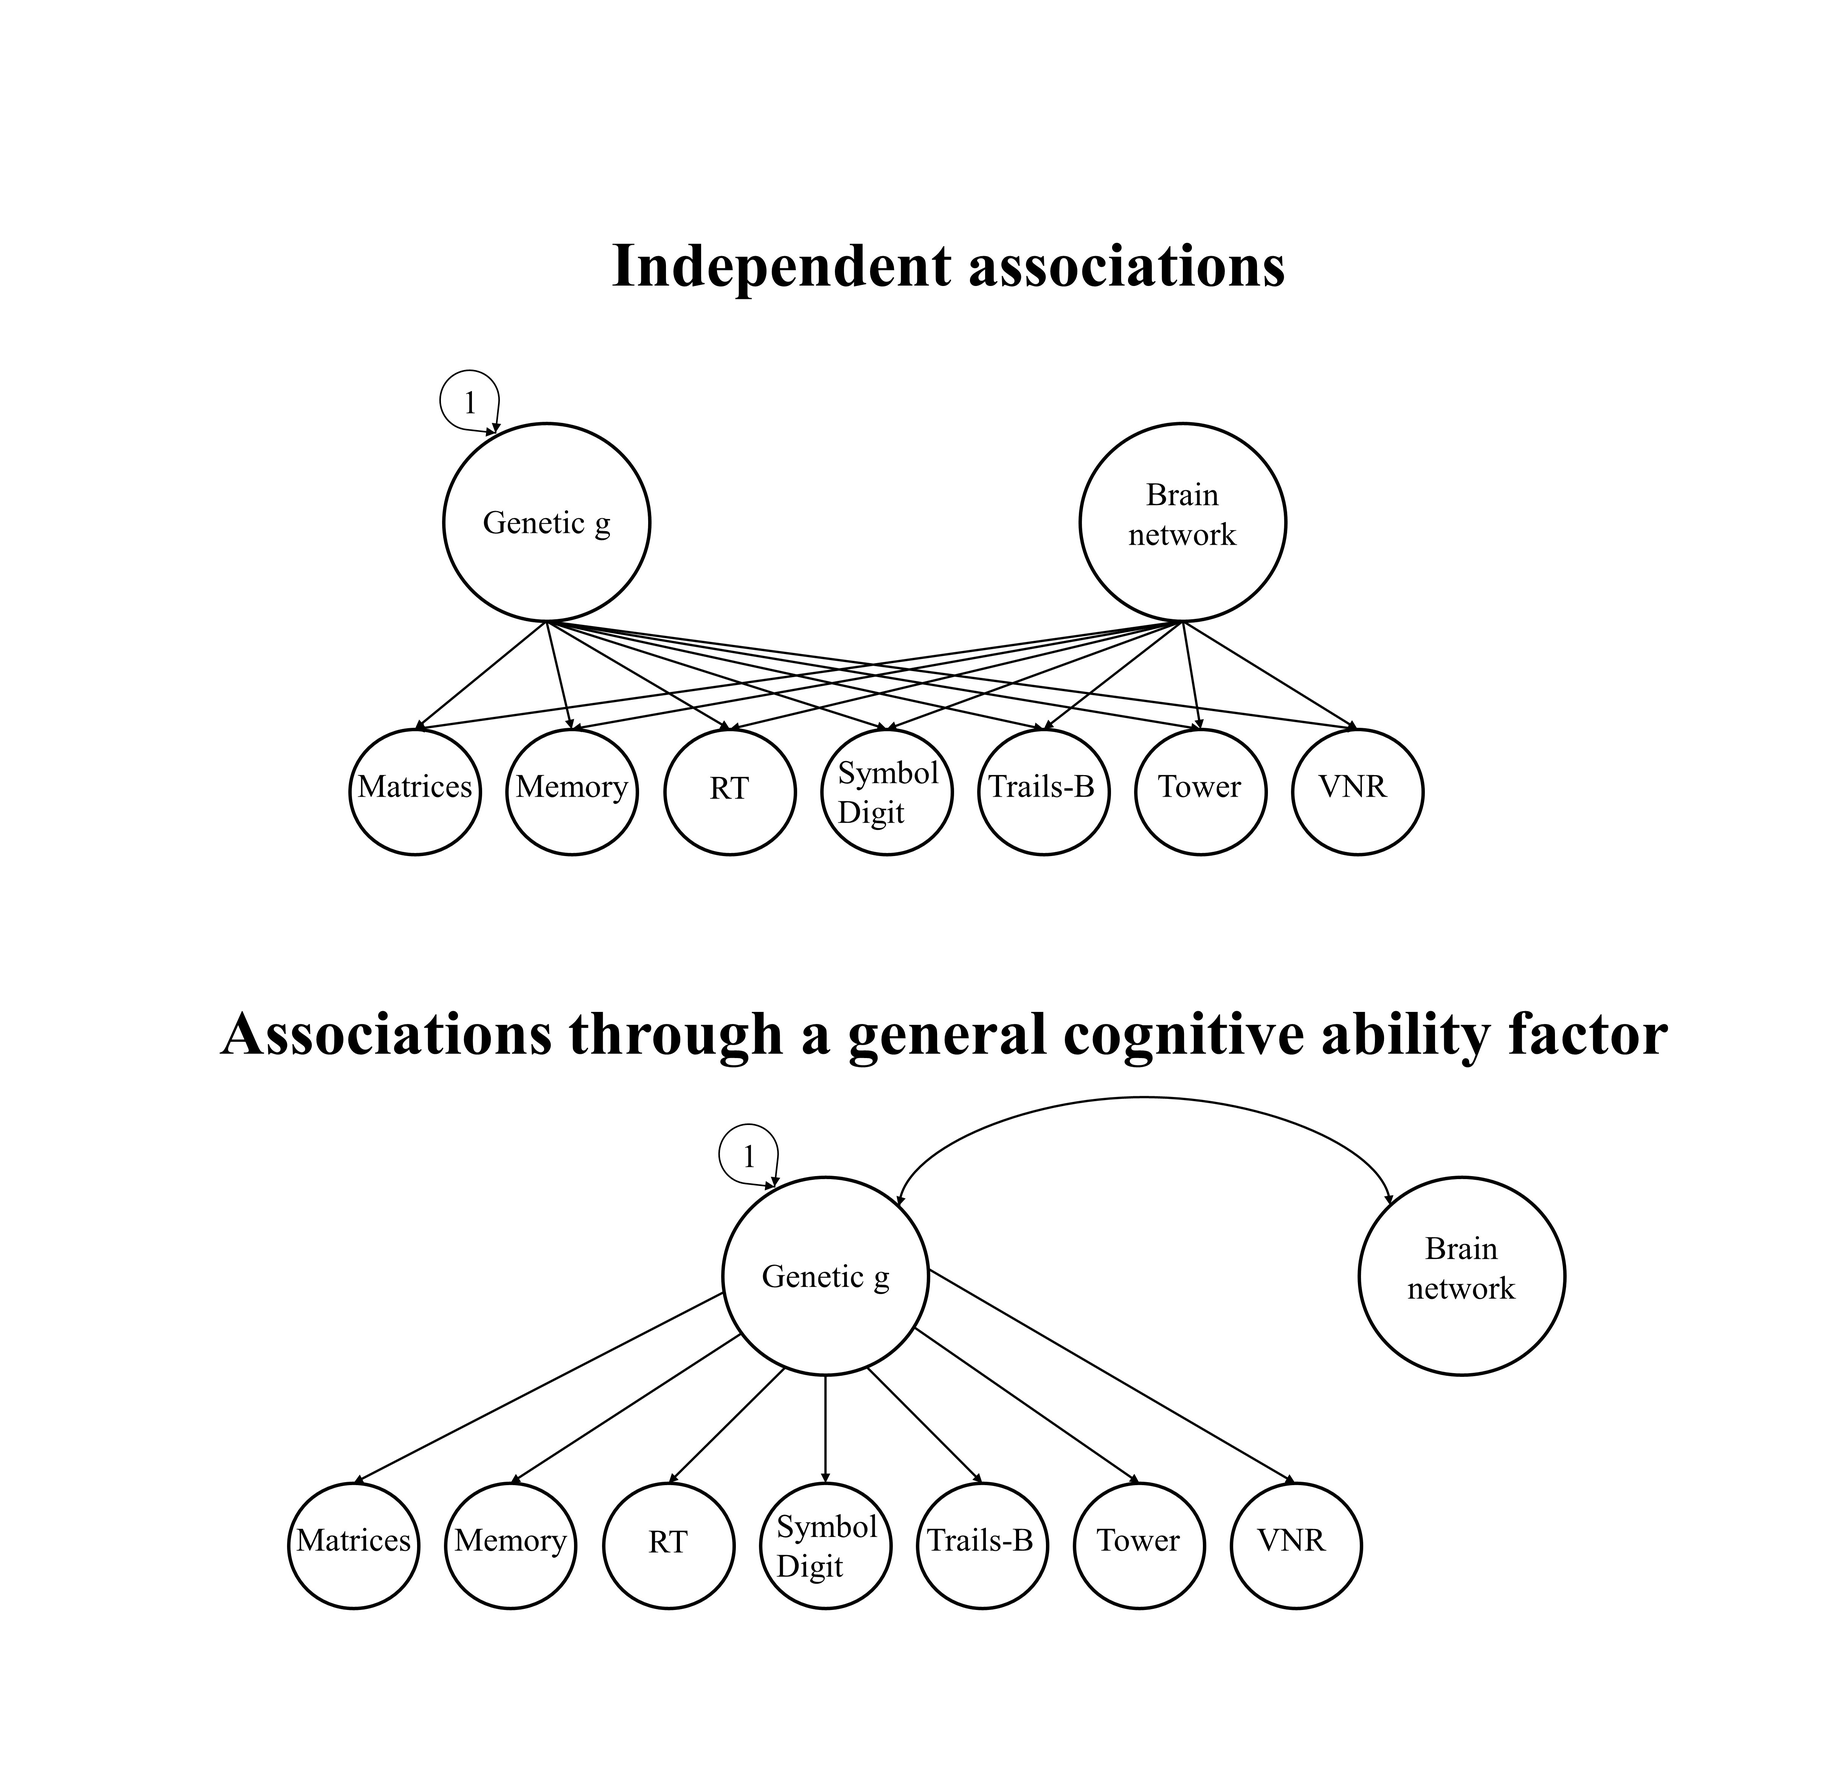
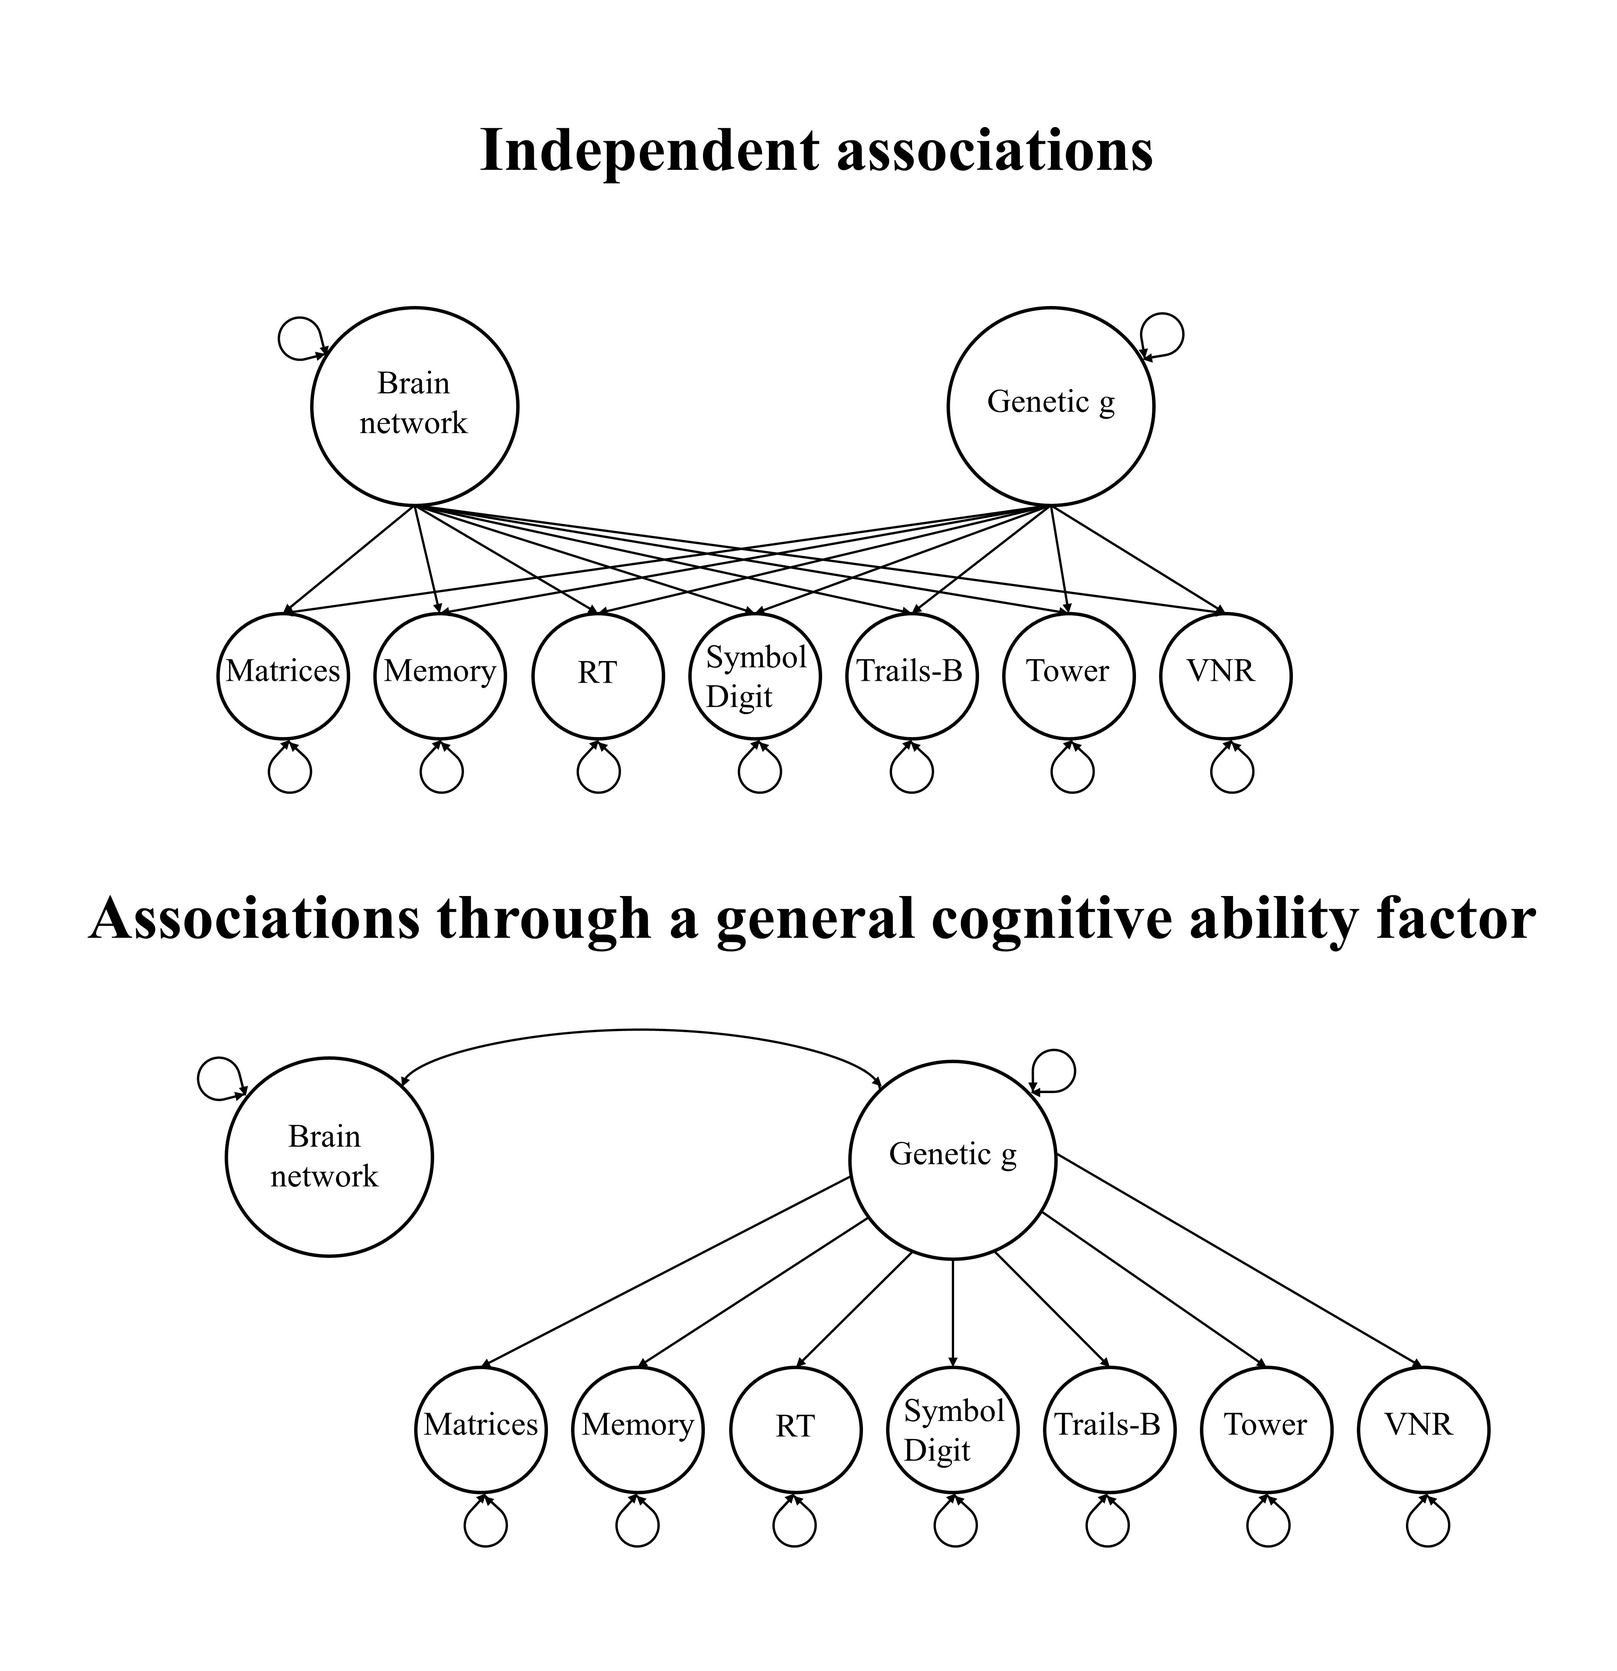
descripQtrait

diff --git a/Hypothesis3.html b/Hypothesis3.html
@@ -376,10 +376,15 @@ body{
 }
 </style>
 <p>Using genomic structural equation modelling (genomic SEM; Grotzinger et al., 2019), we will extract a latent genetic g factor which represents common genetic variation shared by seven cognitive traits (de la Fuente et al., 2019) and correlate it with brainwide and network-specific genetic indices. As brain volumes and intelligence genetically overlap, we hypothesise that the genetic whole-brain scores positively correlate with genetic g. Additionally, we hypothesise, on the basis of previous phenotypic findings, that the central executive network shows a stronger genetic correlation than other networks, when accounting for the number of included nodes.</p>
+<p><br> <br></p>
 <div id="calculate-pc-sumstats" class="section level1">
 <h1>Calculate PC sumstats</h1>
+<p><img src="methods_visualisation.png" /></p>
+<p><br> <br></p>
+<hr />
 <div id="format-gwas-as-expected-by-gwama-software" class="section level2">
 <h2>1. Format GWAS as expected by GWAMA software</h2>
+<p>The following code relates to step 4 in the illustration above.</p>
 <pre class="r"><code>##### format GWAS files for GWAMA
 # documentation of the Baselman function
 # https://github.com/baselmans/multivariate_GWAMA/blob/master/README.md
@@ -791,8 +796,8 @@ only_networks&lt;-only_networks[which(!is.na(only_networks$value)),]
 
 library(DT)
 datatable(only_networks, caption = &quot;Genetic correlations among genetic networks&quot;,colnames = c(&quot;Network 1&quot;,&quot;Network 2&quot;,&quot;rg&quot;), rownames=FALSE,options = list(pageLength=5, scrollX=T))</code></pre>
-<div id="htmlwidget-f418ae1a2a673d0e2482" style="width:100%;height:auto;" class="datatables html-widget"></div>
-<script type="application/json" data-for="htmlwidget-f418ae1a2a673d0e2482">{"x":{"filter":"none","caption":"<caption>Genetic correlations among genetic networks<\/caption>","data":[["cingulo","default_mode","hippocampal","multiple","p_fit","salience","sensori","temporo","whole_brain","default_mode","hippocampal","multiple","p_fit","salience","sensori","temporo","whole_brain","hippocampal","multiple","p_fit","salience","sensori","temporo","whole_brain","multiple","p_fit","salience","sensori","temporo","whole_brain","p_fit","salience","sensori","temporo","whole_brain","salience","sensori","temporo","whole_brain","sensori","temporo","whole_brain","temporo","whole_brain","whole_brain"],["central_exec","central_exec","central_exec","central_exec","central_exec","central_exec","central_exec","central_exec","central_exec","cingulo","cingulo","cingulo","cingulo","cingulo","cingulo","cingulo","cingulo","default_mode","default_mode","default_mode","default_mode","default_mode","default_mode","default_mode","hippocampal","hippocampal","hippocampal","hippocampal","hippocampal","hippocampal","multiple","multiple","multiple","multiple","multiple","p_fit","p_fit","p_fit","p_fit","salience","salience","salience","sensori","sensori","temporo"],[0.88,0.92,0.66,0.94,0.95,0.69,0.82,0.85,0.91,0.86,0.68,0.87,0.89,0.84,0.82,0.86,0.91,0.75,0.89,0.95,0.71,0.82,0.93,0.95,0.63,0.71,0.79,0.69,0.77,0.81,0.92,0.69,0.88,0.83,0.9,0.73,0.85,0.94,0.97,0.76,0.77,0.83,0.8,0.89,0.95]],"container":"<table class=\"display\">\n  <thead>\n    <tr>\n      <th>Network 1<\/th>\n      <th>Network 2<\/th>\n      <th>rg<\/th>\n    <\/tr>\n  <\/thead>\n<\/table>","options":{"pageLength":5,"scrollX":true,"columnDefs":[{"className":"dt-right","targets":2}],"order":[],"autoWidth":false,"orderClasses":false,"lengthMenu":[5,10,25,50,100]}},"evals":[],"jsHooks":[]}</script>
+<div id="htmlwidget-1922692a7d30286f7309" style="width:100%;height:auto;" class="datatables html-widget"></div>
+<script type="application/json" data-for="htmlwidget-1922692a7d30286f7309">{"x":{"filter":"none","caption":"<caption>Genetic correlations among genetic networks<\/caption>","data":[["cingulo","default_mode","hippocampal","multiple","p_fit","salience","sensori","temporo","whole_brain","default_mode","hippocampal","multiple","p_fit","salience","sensori","temporo","whole_brain","hippocampal","multiple","p_fit","salience","sensori","temporo","whole_brain","multiple","p_fit","salience","sensori","temporo","whole_brain","p_fit","salience","sensori","temporo","whole_brain","salience","sensori","temporo","whole_brain","sensori","temporo","whole_brain","temporo","whole_brain","whole_brain"],["central_exec","central_exec","central_exec","central_exec","central_exec","central_exec","central_exec","central_exec","central_exec","cingulo","cingulo","cingulo","cingulo","cingulo","cingulo","cingulo","cingulo","default_mode","default_mode","default_mode","default_mode","default_mode","default_mode","default_mode","hippocampal","hippocampal","hippocampal","hippocampal","hippocampal","hippocampal","multiple","multiple","multiple","multiple","multiple","p_fit","p_fit","p_fit","p_fit","salience","salience","salience","sensori","sensori","temporo"],[0.88,0.92,0.66,0.94,0.95,0.69,0.82,0.85,0.91,0.86,0.68,0.87,0.89,0.84,0.82,0.86,0.91,0.75,0.89,0.95,0.71,0.82,0.93,0.95,0.63,0.71,0.79,0.69,0.77,0.81,0.92,0.69,0.88,0.83,0.9,0.73,0.85,0.94,0.97,0.76,0.77,0.83,0.8,0.89,0.95]],"container":"<table class=\"display\">\n  <thead>\n    <tr>\n      <th>Network 1<\/th>\n      <th>Network 2<\/th>\n      <th>rg<\/th>\n    <\/tr>\n  <\/thead>\n<\/table>","options":{"pageLength":5,"scrollX":true,"columnDefs":[{"className":"dt-right","targets":2}],"order":[],"autoWidth":false,"orderClasses":false,"lengthMenu":[5,10,25,50,100]}},"evals":[],"jsHooks":[]}</script>
 <p>The genetic correlations between the networks range from 0.97 to 0.63 (mean rg 0.83; SD = 0.09). This indicates that the different networks index very similar polygenic signal. The largest genetic correlation of 0.97 was between whole_brain and p_fit. The smallest genetic correlation of 0.63 was between multiple and hippocampal.</p>
 <p><br> <br></p>
 </div>
@@ -1772,8 +1777,8 @@ names(table)&lt;-c(&quot;model&quot;,&quot;rg&quot;,&quot;SE&quot;,&quot;CI&quot
 
 library(DT)
 datatable(table, caption = &quot;Genetic correlations between individual networks and specific cognitive abilities&quot;, rownames=FALSE,options = list(pageLength=5, scrollX=T))</code></pre>
-<div id="htmlwidget-878840b1ded800b5af42" style="width:100%;height:auto;" class="datatables html-widget"></div>
-<script type="application/json" data-for="htmlwidget-878840b1ded800b5af42">{"x":{"filter":"none","caption":"<caption>Genetic correlations between individual networks and specific cognitive abilities<\/caption>","data":[["central_exec_Matrix","central_exec_Memory","central_exec_Symbol Digit","cingulo_Matrix","cingulo_Memory","cingulo_Symbol Digit","default_mode_Matrix","default_mode_Memory","default_mode_Symbol Digit","hippocampal_Matrix","hippocampal_Memory","hippocampal_Symbol Digit","multiple_Matrix","multiple_Memory","multiple_Symbol Digit","p_fit_Matrix","p_fit_Memory","p_fit_Symbol Digit","salience_Matrix","salience_Memory","salience_Symbol Digit","sensori_Matrix","sensori_Memory","sensori_Symbol Digit","temporo_Matrix","temporo_Memory","temporo_Symbol Digit","whole_brain_Matrix","whole_brain_Memory","whole_brain_Symbol Digit"],[0.2013,0.1168,0.1403,0.1907,0.0915,0.1209,0.2219,0.1082,0.1387,0.185,0.0278,0.1263,0.1675,0.111,0.11,0.227,0.1139,0.1204,0.1276,0.0498,0.1285,0.1111,0.0888,0.1198,0.2416,0.0967,0.1087,0.2287,0.0991,0.1365],[0.0884,0.0384,0.0463,0.095,0.0369,0.0458,0.0913,0.0405,0.0446,0.094,0.04,0.0452,0.0888,0.0393,0.0465,0.0865,0.0382,0.0456,0.0912,0.0354,0.047,0.0877,0.0401,0.0468,0.0881,0.039,0.0461,0.0875,0.0384,0.0469],["0.0281 - 0.3745","0.0415 - 0.1921","0.0495 - 0.2311","0.0046 - 0.3768","0.0192 - 0.1638","0.0311 - 0.2107","0.043 - 0.4008","0.0288 - 0.1876","0.0513 - 0.2261","7e-04 - 0.3693","-0.0505 - 0.1061","0.0376 - 0.2149","-0.0066 - 0.3416","0.0339 - 0.188","0.0189 - 0.2011","0.0575 - 0.3964","0.039 - 0.1887","0.031 - 0.2097","-0.0512 - 0.3065","-0.0197 - 0.1192","0.0363 - 0.2207","-0.0608 - 0.283","0.0103 - 0.1673","0.0282 - 0.2115","0.069 - 0.4143","0.0202 - 0.1732","0.0184 - 0.199","0.0571 - 0.4002","0.0238 - 0.1745","0.0446 - 0.2284"],[0.0227,0.0024,0.0024,0.0446,0.0131,0.0083,0.0151,0.0075,0.0019,0.0491,0.4866,0.0052,0.0593,0.0048,0.018,0.0087,0.0029,0.0083,0.1619,0.16,0.0063,0.2053,0.0267,0.0104,0.0061,0.0133,0.0182,0.009,0.0099,0.0036],[0.031,0.0193,0.0193,0.0558,0.0221,0.0193,0.0238,0.0193,0.0193,0.0589,0.4866,0.0193,0.0684,0.0193,0.0261,0.0193,0.0193,0.0193,0.1735,0.1735,0.0193,0.2124,0.0348,0.0195,0.0193,0.0221,0.0261,0.0193,0.0195,0.0193]],"container":"<table class=\"display\">\n  <thead>\n    <tr>\n      <th>model<\/th>\n      <th>rg<\/th>\n      <th>SE<\/th>\n      <th>CI<\/th>\n      <th>p_value<\/th>\n      <th>p_adjust<\/th>\n    <\/tr>\n  <\/thead>\n<\/table>","options":{"pageLength":5,"scrollX":true,"columnDefs":[{"className":"dt-right","targets":[1,2,4,5]}],"order":[],"autoWidth":false,"orderClasses":false,"lengthMenu":[5,10,25,50,100]}},"evals":[],"jsHooks":[]}</script>
+<div id="htmlwidget-8a36fcd57774400bb5d4" style="width:100%;height:auto;" class="datatables html-widget"></div>
+<script type="application/json" data-for="htmlwidget-8a36fcd57774400bb5d4">{"x":{"filter":"none","caption":"<caption>Genetic correlations between individual networks and specific cognitive abilities<\/caption>","data":[["central_exec_Matrix","central_exec_Memory","central_exec_Symbol Digit","cingulo_Matrix","cingulo_Memory","cingulo_Symbol Digit","default_mode_Matrix","default_mode_Memory","default_mode_Symbol Digit","hippocampal_Matrix","hippocampal_Memory","hippocampal_Symbol Digit","multiple_Matrix","multiple_Memory","multiple_Symbol Digit","p_fit_Matrix","p_fit_Memory","p_fit_Symbol Digit","salience_Matrix","salience_Memory","salience_Symbol Digit","sensori_Matrix","sensori_Memory","sensori_Symbol Digit","temporo_Matrix","temporo_Memory","temporo_Symbol Digit","whole_brain_Matrix","whole_brain_Memory","whole_brain_Symbol Digit"],[0.2013,0.1168,0.1403,0.1907,0.0915,0.1209,0.2219,0.1082,0.1387,0.185,0.0278,0.1263,0.1675,0.111,0.11,0.227,0.1139,0.1204,0.1276,0.0498,0.1285,0.1111,0.0888,0.1198,0.2416,0.0967,0.1087,0.2287,0.0991,0.1365],[0.0884,0.0384,0.0463,0.095,0.0369,0.0458,0.0913,0.0405,0.0446,0.094,0.04,0.0452,0.0888,0.0393,0.0465,0.0865,0.0382,0.0456,0.0912,0.0354,0.047,0.0877,0.0401,0.0468,0.0881,0.039,0.0461,0.0875,0.0384,0.0469],["0.0281 - 0.3745","0.0415 - 0.1921","0.0495 - 0.2311","0.0046 - 0.3768","0.0192 - 0.1638","0.0311 - 0.2107","0.043 - 0.4008","0.0288 - 0.1876","0.0513 - 0.2261","7e-04 - 0.3693","-0.0505 - 0.1061","0.0376 - 0.2149","-0.0066 - 0.3416","0.0339 - 0.188","0.0189 - 0.2011","0.0575 - 0.3964","0.039 - 0.1887","0.031 - 0.2097","-0.0512 - 0.3065","-0.0197 - 0.1192","0.0363 - 0.2207","-0.0608 - 0.283","0.0103 - 0.1673","0.0282 - 0.2115","0.069 - 0.4143","0.0202 - 0.1732","0.0184 - 0.199","0.0571 - 0.4002","0.0238 - 0.1745","0.0446 - 0.2284"],[0.0227,0.0024,0.0024,0.0446,0.0131,0.0083,0.0151,0.0075,0.0019,0.0491,0.4866,0.0052,0.0593,0.0048,0.018,0.0087,0.0029,0.0083,0.1619,0.16,0.0063,0.2053,0.0267,0.0104,0.0061,0.0133,0.0182,0.009,0.0099,0.0036],[0.031,0.0193,0.0193,0.0558,0.0221,0.0193,0.0238,0.0193,0.0193,0.0589,0.4866,0.0193,0.0684,0.0193,0.0261,0.0193,0.0193,0.0193,0.1735,0.1735,0.0193,0.2124,0.0348,0.0195,0.0193,0.0221,0.0261,0.0193,0.0195,0.0193]],"container":"<table class=\"display\">\n  <thead>\n    <tr>\n      <th>model<\/th>\n      <th>rg<\/th>\n      <th>SE<\/th>\n      <th>CI<\/th>\n      <th>p_value<\/th>\n      <th>p_adjust<\/th>\n    <\/tr>\n  <\/thead>\n<\/table>","options":{"pageLength":5,"scrollX":true,"columnDefs":[{"className":"dt-right","targets":[1,2,4,5]}],"order":[],"autoWidth":false,"orderClasses":false,"lengthMenu":[5,10,25,50,100]}},"evals":[],"jsHooks":[]}</script>
 <p><strong>Most genetic associations between the networks and individual cognitive traits were significant.</strong></p>
 <p><br></p>
 <p><strong>The following table lists the traits that were non-significantly associated:</strong></p>
@@ -1868,8 +1873,8 @@ kable(non_sig_models,row.names = F,caption = &quot;Genetic correlations that wer
 </div>
 <div id="qtrait" class="section level2">
 <h2>Qtrait</h2>
-<p>The analyses above, aiming to determine contributions of specific cognitive abilities to the genetic associations between general cognitive ability and networks, are somewhat inclusive. Most traits were significantly associated with the networks. We employ a technique called <a href="https://www.medrxiv.org/content/10.1101/2020.09.22.20196089v1.full.pdf">Qtrait</a> to disentangle whether model fit significantly declines, if the model described above allows for direct correlations between the networks and specific cognitive abilities. A significant Qtrait statistic would suggest that model fit significantly declined and that the association of interest is likely driven by specific cognitive abilities, rather than going through the general cognitive ability factor.</p>
-<p>In the following, we fit two models as displayed in the figure below, through which we obtain chi-squared fit statistics for each model. The Qtrait statistic is calculated as the difference between the two fit statistics, and we test whether this difference significantly differs from zero. We repeat this procedure 10 times, once for each network. Qtraits statistics with p-values below 0.05/10 indicate that genetic associations between general cognitive ability and brain networks probably don’t go through the cognitive ability factor, but are driven by variation in specific cognitive traits.</p>
+<p>The analyses above, aiming to determine contributions of specific cognitive abilities to the genetic associations between general cognitive ability and networks, are somewhat inclusive. Most traits were significantly associated with the networks. We employ a technique called <a href="https://www.medrxiv.org/content/10.1101/2020.09.22.20196089v1.full.pdf">Qtrait heterogeneity index</a> to disentangle whether model fit significantly declines, if the model described above allows for direct associations between the networks and specific cognitive abilities. A significant Qtrait statistic would suggest that model fit significantly declined and that the association of interest is likely driven by specific cognitive abilities, rather than going through the general cognitive ability factor.</p>
+<p>In the following, we fit two models as displayed in the figure below, through which we obtain chi-squared fit statistics for each model. The Qtrait heterogeneity index is calculated as the difference between the two fit statistics, and we test whether this difference significantly differs from zero. We repeat this procedure 10 times, once for each network. Qtraits statistics with p-values below 0.05/10 indicate that genetic associations between general cognitive ability and brain networks probably don’t go through the cognitive ability factor, but are driven by variation in specific cognitive traits.</p>
 <p><img src="Path_diagram_Qtrait.jpg" /></p>
 <pre class="r"><code>#load dependencies
 
@@ -1913,16 +1918,15 @@ for (i in network_names){
             #           G ~~ 1*G 
             #           G ~ central_exec&#39;
             
-            factor_model&lt;-paste0(&quot;G =~ NA*Matrix+Memory+RT+Symbol Digit+TMTB+Tower+VNR\n\t\t\t\t\t\tG ~~ 1*G \n\t\t\t\t\t\tG ~ &quot;,network_name)
+            factor_model&lt;-paste0(&quot;G =~ Matrix+Memory+RT+Symbol Digit+TMTB+Tower+VNR\n\t\t\t\t\t\tG ~ &quot;,network_name)
 
             # run your model    
             factor_model&lt;-usermodel(covstruc=covstruc, model=factor_model, estimation=estimation, imp_cov=T)
             
             
             ### specify your model that allows specific cognitive traits to be directly associated with network
-            indep_model&lt;- paste0(&quot;G =~ NA*Matrix+Memory+RT+Symbol Digit+TMTB+Tower+VNR
-                      &quot;,i,&quot; ~ Matrix+Memory+RT+Symbol Digit+TMTB+Tower+VNR
-                       G ~~ 1*G&quot;)
+            indep_model&lt;- paste0(&quot;G =~ Matrix+Memory+RT+Symbol Digit+TMTB+Tower+VNR
+                      &quot;,i,&quot; ~ Matrix+Memory+RT+Symbol Digit+TMTB+Tower+VNR&quot;)
             # run model    
             indep_model&lt;-usermodel(covstruc=covstruc, model=indep_model, estimation=estimation, imp_cov=T)
             
